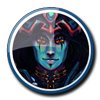
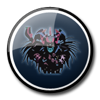
feat(throwback): add recovered legacy art, fix mislabeled/conflicting eras
- Da Dangsters 2015-2024 era gets its own recovered icon instead of
  reusing the current identity's icon.
- Computer Jocks' 2011-2015 "Midwestside Connection" era gets distinct
  recovered art instead of sharing the current Midwestside Connection
  franchise's icon — resolves the asset conflict, removed from
  THROWBACK_ASSET_CONFLICTS.
- DMOC's single 2007-2022 history entry is split into two eras
  (2007-2014, 2015-2024); the existing icon file was mislabeled
  "2007" but is actually the 2015-2024 art (banner already matched
  the true 2007 art), so filenames were corrected to match.
- Adds src/data/theleague/throwback-config.ts (throwback week config
  + eligibility exclusions), part of the in-progress Throwback Week
  feature on claude/cranky-cori-2f9435.

diff --git a/src/data/theleague/throwback-config.ts b/src/data/theleague/throwback-config.ts
@@ -1,0 +1,63 @@
+/**
+ * Throwback Week: designated weeks where teams display a legacy identity
+ * (name/icon/banner from theleague.config.json's per-team `history[]`)
+ * instead of their current one, on live scoring / matchups / submit lineup.
+ *
+ * See /Users/[email redacted]/.claude/plans/unified-sleeping-hearth.md
+ * for the full feature plan.
+ */
+
+/**
+ * NFL week numbers that trigger throwback identity, every season (not tied
+ * to a specific year — recurs automatically). Week 4 is the standing pick;
+ * hand-edit this list to add/remove weeks or make a given week one-time by
+ * moving the check into `isThrowbackWeek` instead.
+ */
+export const THROWBACK_WEEKS: number[] = [4];
+
+/**
+ * {franchiseId, yearStart} pairs whose history entry's icon/banner asset is
+ * also claimed by another franchise's entry (see plan's "Data problems"
+ * section). Excluded from throwback eligibility until each gets distinct
+ * recovered art:
+ *
+ * - Da Dangsters (0002) "Sabertooths" (2007) — asset belongs to Gridiron
+ *   Geeks' 2009 "Sabertooths" era instead.
+ *
+ * Computer Jocks (0010) "Midwestside Connection" (2011) was in this list
+ * for the same reason but got distinct recovered art (icon) plus the
+ * generic placeholder banner — no longer excluded.
+ */
+export const THROWBACK_ASSET_CONFLICTS: { franchiseId: string; yearStart: number }[] = [
+  { franchiseId: '0002', yearStart: 2007 },
+];
+
+/**
+ * Commissioner-picked starting default per franchise (`franchiseId` ->
+ * history entry `yearStart`). Seeded to each team's earliest eligible era
+ * (excluding conflict entries and entries identical to the team's current
+ * identity) — hand-edit any of these to change the default. Owners can
+ * still self-service override on top of this via /theleague/throwback-settings.
+ */
+export const DEFAULT_THROWBACK_ERA: Record<string, number> = {
+  '0001': 2007, // Pacific Pigskins
+  '0002': 2008, // Degenerates
+  '0003': 2007, // Mistakes Were Made
+  '0004': 2007, // Las Vegas Elite
+  '0005': 2007, // The Executioners
+  '0006': 2007, // LBer-DeCleaters
+  '0007': 2007, // Acer FC Edge
+  '0008': 2007, // Bring The Pain
+  '0009': 2007, // Rolling Rockers
+  '0010': 2007, // Witch City Warlocks
+  '0011': 2007, // Amish Rakefighters
+  '0012': 2007, // BOYZ II MEN
+  '0013': 2007, // DangerZone
+  '0014': 2007, // Devil Dogs
+  '0015': 2007, // Dark Magicians of Chaos
+  '0016': 2007, // Silver Bullets
+};
+
+export function isThrowbackWeek(week: number): boolean {
+  return THROWBACK_WEEKS.includes(week);
+}